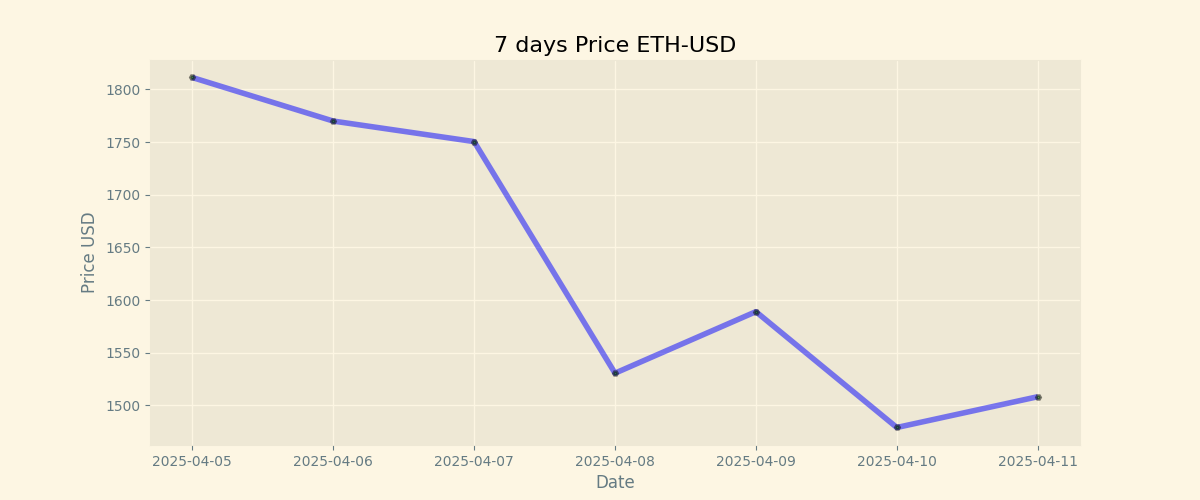
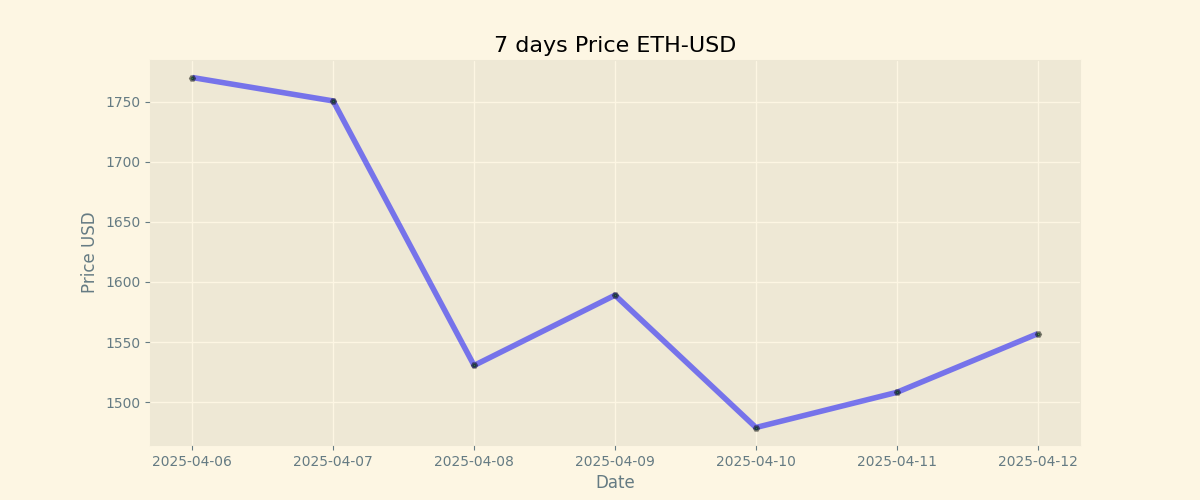
Duty Updates 2025-04-12

diff --git a/README.md b/README.md
@@ -9,8 +9,8 @@
 
 | Currency | Price           |
 | -------- | --------------- |
-| **BTC**  | **$ 81999.0** |
-| **ETH**  | **$ 1508.22** |
+| **BTC**  | **$ 82499.0** |
+| **ETH**  | **$ 1557.0** |
 
 ## BTC chart
 
